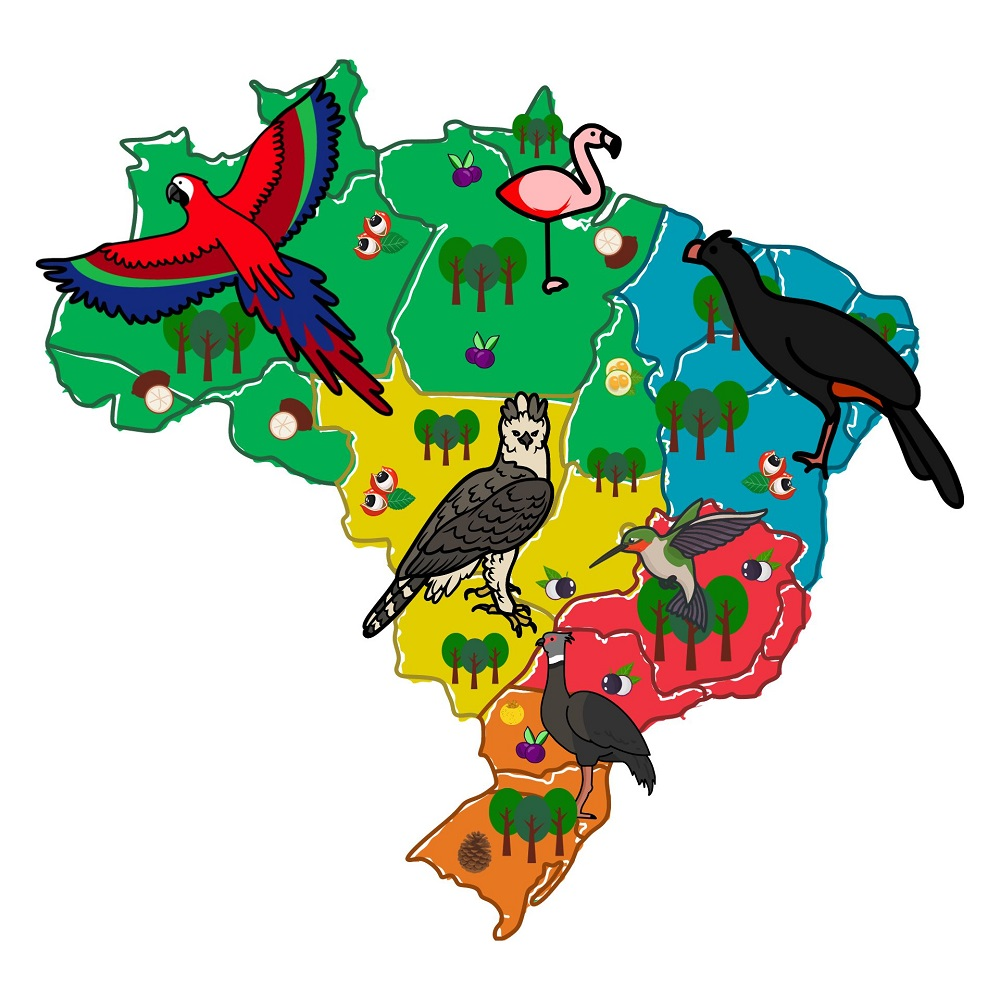
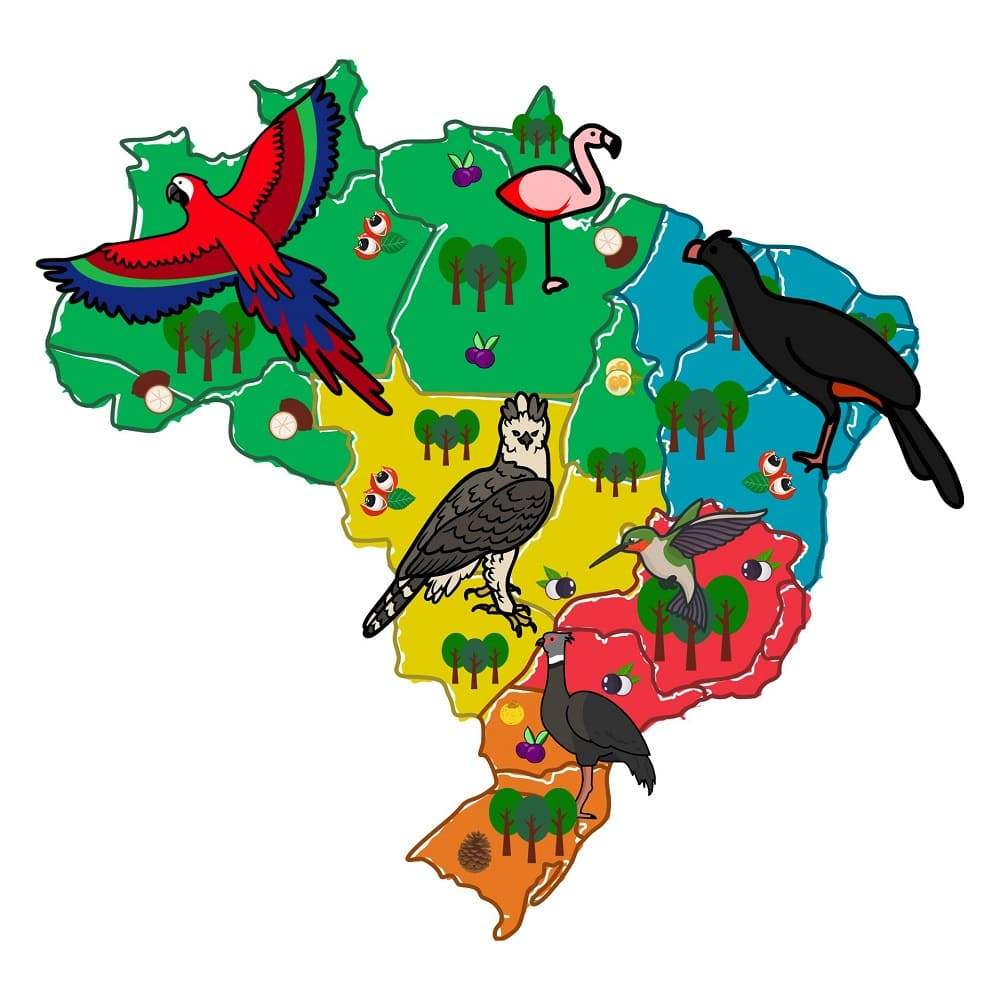
Corrigir

diff --git a/styles/styles.css b/styles/styles.css
@@ -11,6 +11,9 @@ main {
 main img {
     width: 150px;
     height: auto;
+    border: 1px solid rgb(0 0 0 / 0.2);
+    padding: 5px;
+    box-shadow: 0 4px 8px rgb(0 0 0 / 0.2);
 }
 
 p {
@@ -36,4 +39,20 @@ footer {
     margin-top: 1rem;
     border-top: 1px solid #000;
     text-align: center;
+}
+
+nav {
+    display: block;
+    background-color: rgb(49, 49, 49);
+    padding: 1rem;
+}
+
+nav a {
+    color: white;
+    padding: 1rem;
+    display: block;
+}
+
+h1 {
+    color: #333;
 }

diff --git a/index.html b/index.html
@@ -37,7 +37,7 @@
     <aside>
         <h2>BRAZIL</h2>
 
-        <img src="./images/Brazil.jpg" alt="A picture representing Brazil">
+        <img src="./images/brazil.jpg" alt="A picture representing Brazil">
 
         <p>Brazil is the largest country in South America and is known for its rich culture, diverse landscapes,
             and the Amazon Rainforest. The country is famous for its music, soccer, and vibrant festivals, especially

diff --git a/week03/class-and-id.html b/week03/class-and-id.html
@@ -24,7 +24,7 @@
 }</code></pre>
     </div>
 
-    <div class="box highlight">
+    <div class="box">
         <p>This div has two classes assigned to it of <strong>box</strong> and <strong>highlight</strong>. So the div will have the styles of both classes applied.</p>
         <pre><code class="html">&lt;div class="box highlight"&gt; ... &lt;/div&gt;</code></pre>
         and the CSS selector for highlight is
